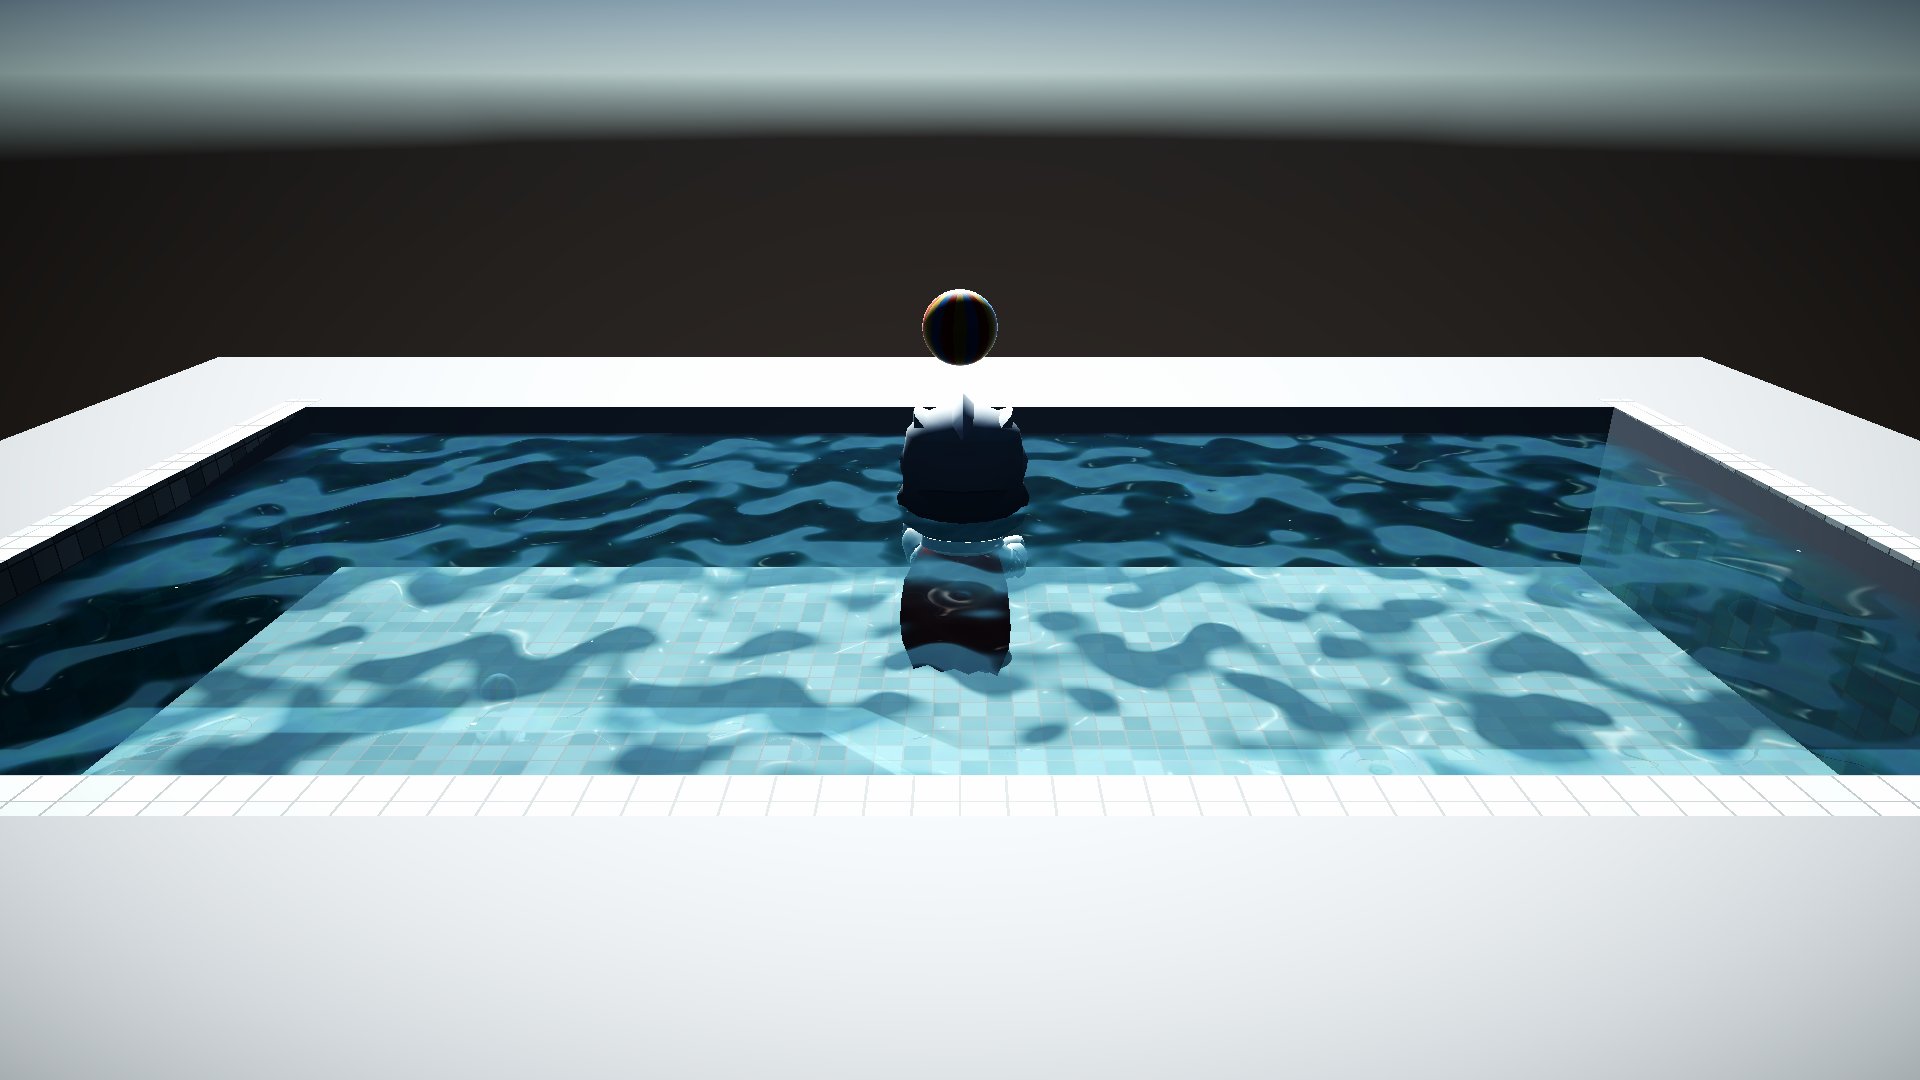
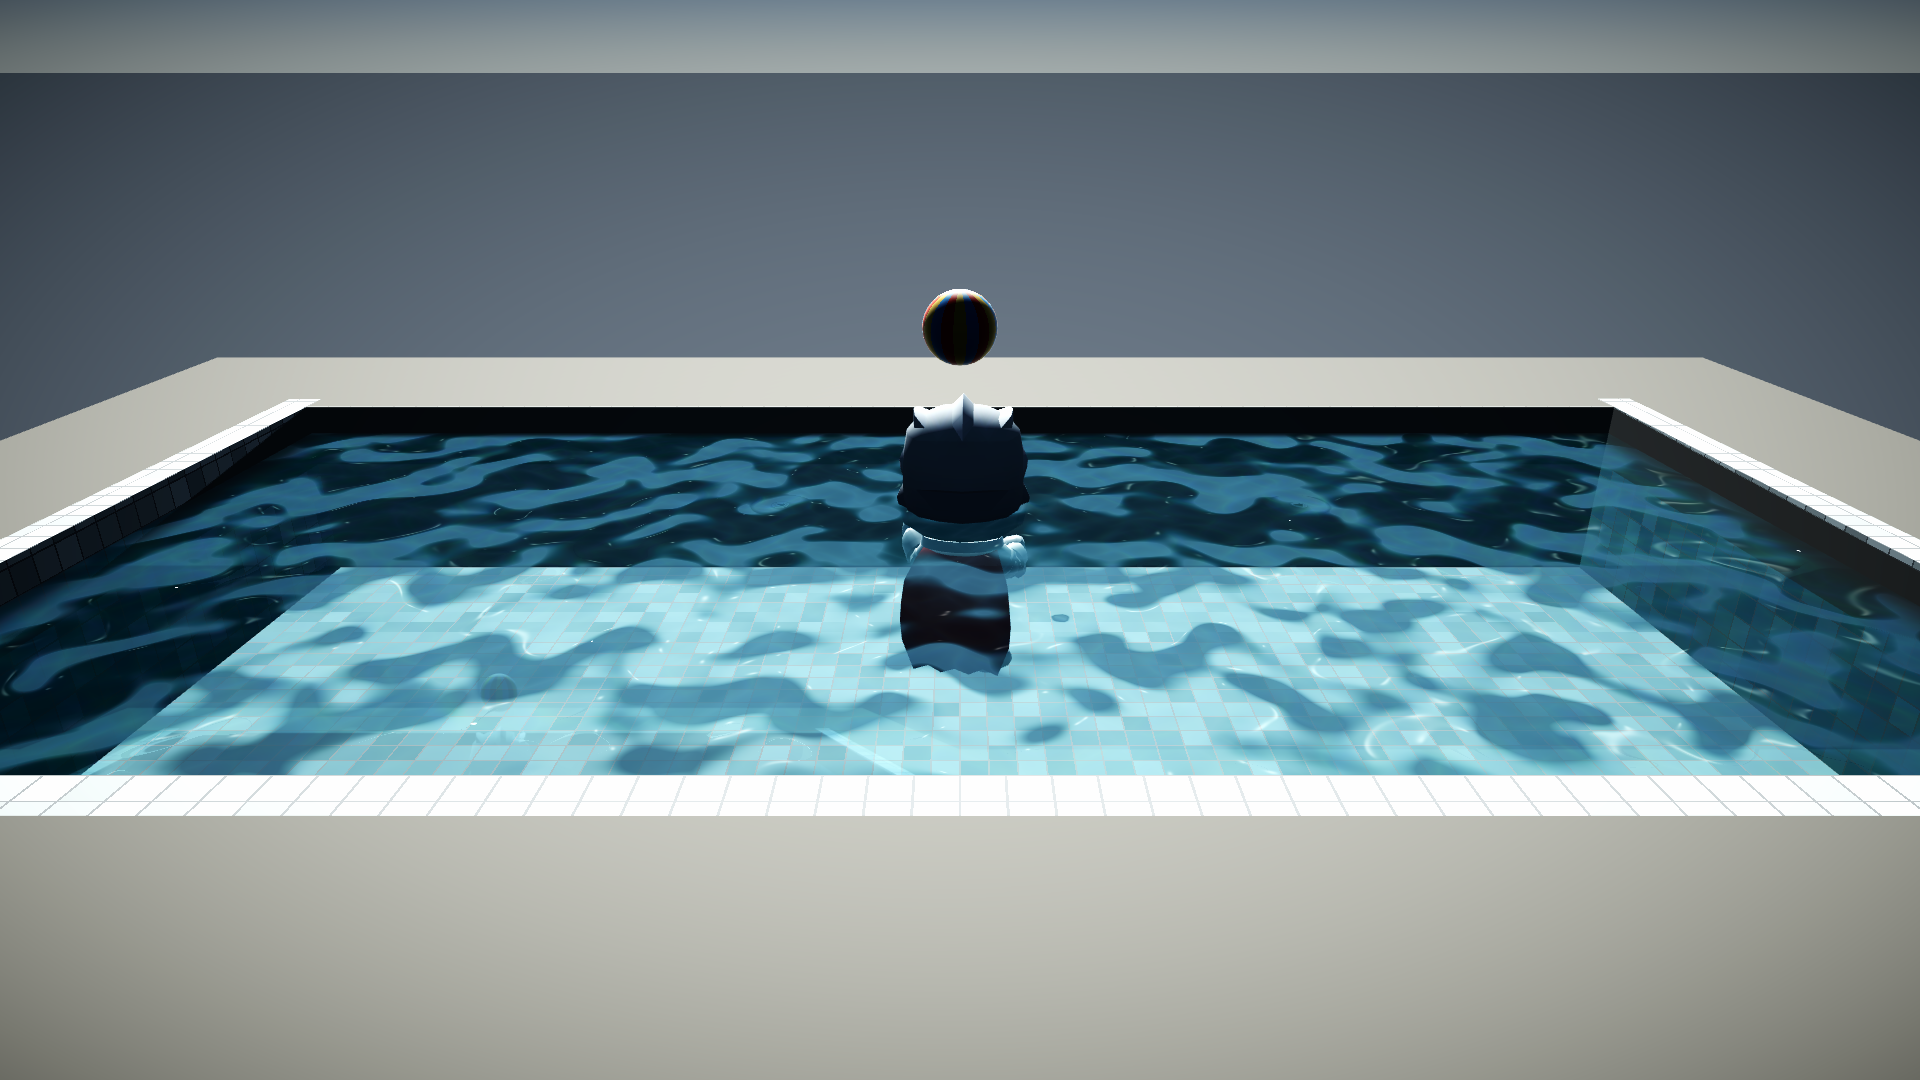
fix(R105): Pool 场景黑背景+白爆. ①skybox 是 Unity 默认(相机俯视看到下半球深褐); 直接换项目天空后变纯黑(Sky_Coast 的 _GroundColor 很深, Ocean 里被水挡住从没暴露) => 单独复制 Pool_Sky, 下半球改浅雾 0.62/0.68/0.74 + 云量0.22 ②Pool_Deck 基色 0.62->0.46: 爆白 6.16%->3.86%, 亮度148.3->130.4 ③遗留: 中间 Knight_Head 仍是纯黑剪影(贴图是亮的, 疑阴影/朝向), 下轮查 ④新增 R105Setup(天空切换/探针) + R64 

diff --git a/Assets/Editor/R105Setup.cs b/Assets/Editor/R105Setup.cs
@@ -1,0 +1,95 @@
+// R105Setup.cs — R105：Pool 场景换天空盒（默认天空盒的下半球是深褐色，读作"没做完"）
+//
+// Pool 的 `RenderSettings.skybox` 一直是 Unity 自带的 `Default-Skybox`：
+//   · 相机略俯视 ⇒ 画面上一大半是天空盒的**下半球**（深褐/土色）
+//   · 没有云、没有渐变，和其他五个场景完全不是一套视觉
+//
+// 这里换成项目自己的 `Sky_OpenCoast`（有体积云/分层渐变），可逆。
+#if UNITY_EDITOR
+using System.IO;
+using UnityEditor;
+using UnityEditor.SceneManagement;
+using UnityEngine;
+
+namespace WaterProject.EditorTools
+{
+    public static class R105Setup
+    {
+        static void P(string s)
+            => File.AppendAllText(Path.Combine(Application.dataPath, "../Logs/water_probe.txt"), s);
+
+        static void SetSky(string matName, string tag)
+        {
+            var prev = RenderSettings.skybox;
+            var mat = AssetDatabase.LoadAssetAtPath<Material>($"Assets/Art/Materials/{matName}.mat");
+            if (mat == null) { P($"R105/{tag} REFUSED: 找不到 {matName}\n"); return; }
+            RenderSettings.skybox = mat;
+            if (!Application.isPlaying)
+            {
+                EditorSceneManager.MarkSceneDirty(EditorSceneManager.GetActiveScene());
+                DynamicGI.UpdateEnvironment();
+            }
+            P($"R105/{tag} 天空盒 {prev?.name ?? "null"} -> {mat.name}\n");
+        }
+
+        [MenuItem("Tools/R105/90 Pool 天空=项目天空(可逆)")]
+        public static void PoolSky() => SetSky("Sky_OpenCoast", "90");
+
+        // Pool 单独一份天空材质：复用 Sky_OpenCoast 的全部参数，只把**下半球**改成浅雾色。
+        //   直接改共享材质会把 Ocean 的地平线也一起改掉，所以必须复制。
+        [MenuItem("Tools/R105/90c Pool 天空=项目天空+浅雾下半球(推荐)")]
+        public static void PoolSkyHaze()
+        {
+            var src = AssetDatabase.LoadAssetAtPath<Material>("Assets/Art/Materials/Sky_OpenCoast.mat");
+            if (src == null) { P("R105/90c REFUSED: 找不到 Sky_OpenCoast\n"); return; }
+
+            string path = "Assets/Art/Materials/Pool_Sky.mat";
+            var mat = AssetDatabase.LoadAssetAtPath<Material>(path);
+            if (mat == null)
+            {
+                mat = new Material(src) { name = "Pool_Sky" };
+                AssetDatabase.CreateAsset(mat, path);
+            }
+            else
+            {
+                mat.CopyPropertiesFromMaterial(src);
+            }
+            mat.SetColor("_GroundColor", new Color(0.62f, 0.68f, 0.74f, 1f));
+            mat.SetFloat("_CloudCover", 0.22f);
+            EditorUtility.SetDirty(mat);
+            AssetDatabase.SaveAssetIfDirty(mat);
+
+            RenderSettings.skybox = mat;
+            if (!Application.isPlaying)
+            {
+                EditorSceneManager.MarkSceneDirty(EditorSceneManager.GetActiveScene());
+                DynamicGI.UpdateEnvironment();
+            }
+            P($"R105/90c 天空盒 -> {mat.name}（下半球 0.62/0.68/0.74）\n");
+        }
+
+        [MenuItem("Tools/R105/90b Pool 天空=Unity 默认")]
+        public static void PoolSkyBack()
+        {
+            var def = Resources.GetBuiltinResource<Material>("Default-Skybox.mat");
+            if (def == null) { P("R105/90b REFUSED: 拿不到 Default-Skybox\n"); return; }
+            RenderSettings.skybox = def;
+            if (!Application.isPlaying)
+            {
+                EditorSceneManager.MarkSceneDirty(EditorSceneManager.GetActiveScene());
+                DynamicGI.UpdateEnvironment();
+            }
+            P("R105/90b 天空盒 -> Default-Skybox\n");
+        }
+
+        [MenuItem("Tools/R105/91 探针")]
+        public static void Probe()
+        {
+            var sky = RenderSettings.skybox;
+            P($"R105 PROBE skybox={(sky == null ? "null" : sky.name)} " +
+              $"ambientMode={RenderSettings.ambientMode} ambientIntensity={RenderSettings.ambientIntensity:F2} " +
+              $"scene={EditorSceneManager.GetActiveScene().name}\n");
+        }
+    }
+}
+#endif

diff --git a/Assets/Editor/R64Setup.cs b/Assets/Editor/R64Setup.cs
@@ -22,6 +22,8 @@ namespace WaterProject.EditorTools
         // 归一化屏幕点（0~1，左下原点）。默认取"平板"所在的几个点。
         static readonly Vector2[] Points =
         {
+            new Vector2(0.50f, 0.55f),   // R105：Pool 中间那个黑色人影
+            new Vector2(0.50f, 0.72f),   // R105：Pool 上方那个球
             new Vector2(0.46f, 0.815f),   // R103：Main 中间那块黑巨石
             new Vector2(0.30f, 0.72f),    // R103：黑巨石左侧
             new Vector2(0.15f, 0.22f),

diff --git a/Docs/学习路径与知识库/检测报告/R56_场景画质与采集口径.md b/Docs/学习路径与知识库/检测报告/R56_场景画质与采集口径.md
@@ -710,3 +710,27 @@ p95 从 31ms 掉到 16ms，帧时间更稳。
 MSAA 救不了。
 
 Islet：129.0 / 50.3 / 122.2 / 近黑 3.54 / 爆白 0.36。
+
+---
+
+## R105：Pool 场景从"黑背景 + 白爆"到能看
+
+### ① 背景是个黑洞
+Pool 的 `RenderSettings.skybox` 一直是 Unity 自带的 `Default-Skybox`；
+相机略俯视 ⇒ 画面上一大半是**天空盒的下半球**（默认是深褐/土色，换成项目天空后又变成纯黑，
+因为 `Sky_Coast` 的 `_GroundColor` 本来就很深 —— Ocean 里地平线以下永远被水挡住，所以从没暴露）。
+
+**修法**：给 Pool **单独复制**一份天空材质 `Pool_Sky`（复制而不是共享，否则会改到 Ocean 的地平线），
+把 `_GroundColor` 设成浅雾色 (0.62,0.68,0.74)、云量压到 0.22。
+现在背景是"远处雾霭"，读得出是户外。
+
+### ② 白池沿过曝
+`Pool_Deck._BaseColor` 0.62 → **0.46**（去掉新天空带来的环境光增量）：
+**爆白 6.16% → 3.86%**，亮度 148.3 → 130.4（回到和其他场景一致的档位）。
+
+Pool：130.4 / 60.1 / 67.2 / 近黑 4.56 / 爆白 3.86。
+
+### 遗留
+中间那个"黑色人影"（`Knight_Head`，材质 `Pool_Knight_Mat`）在画面里仍是纯黑剪影。
+它的贴图 `Pool_Knight_Tex` 均值 (120,129,149) 是亮的，所以**不是贴图问题**，
+更可能是它落在阴影里 / 朝向问题 —— 下一轮单独查。
